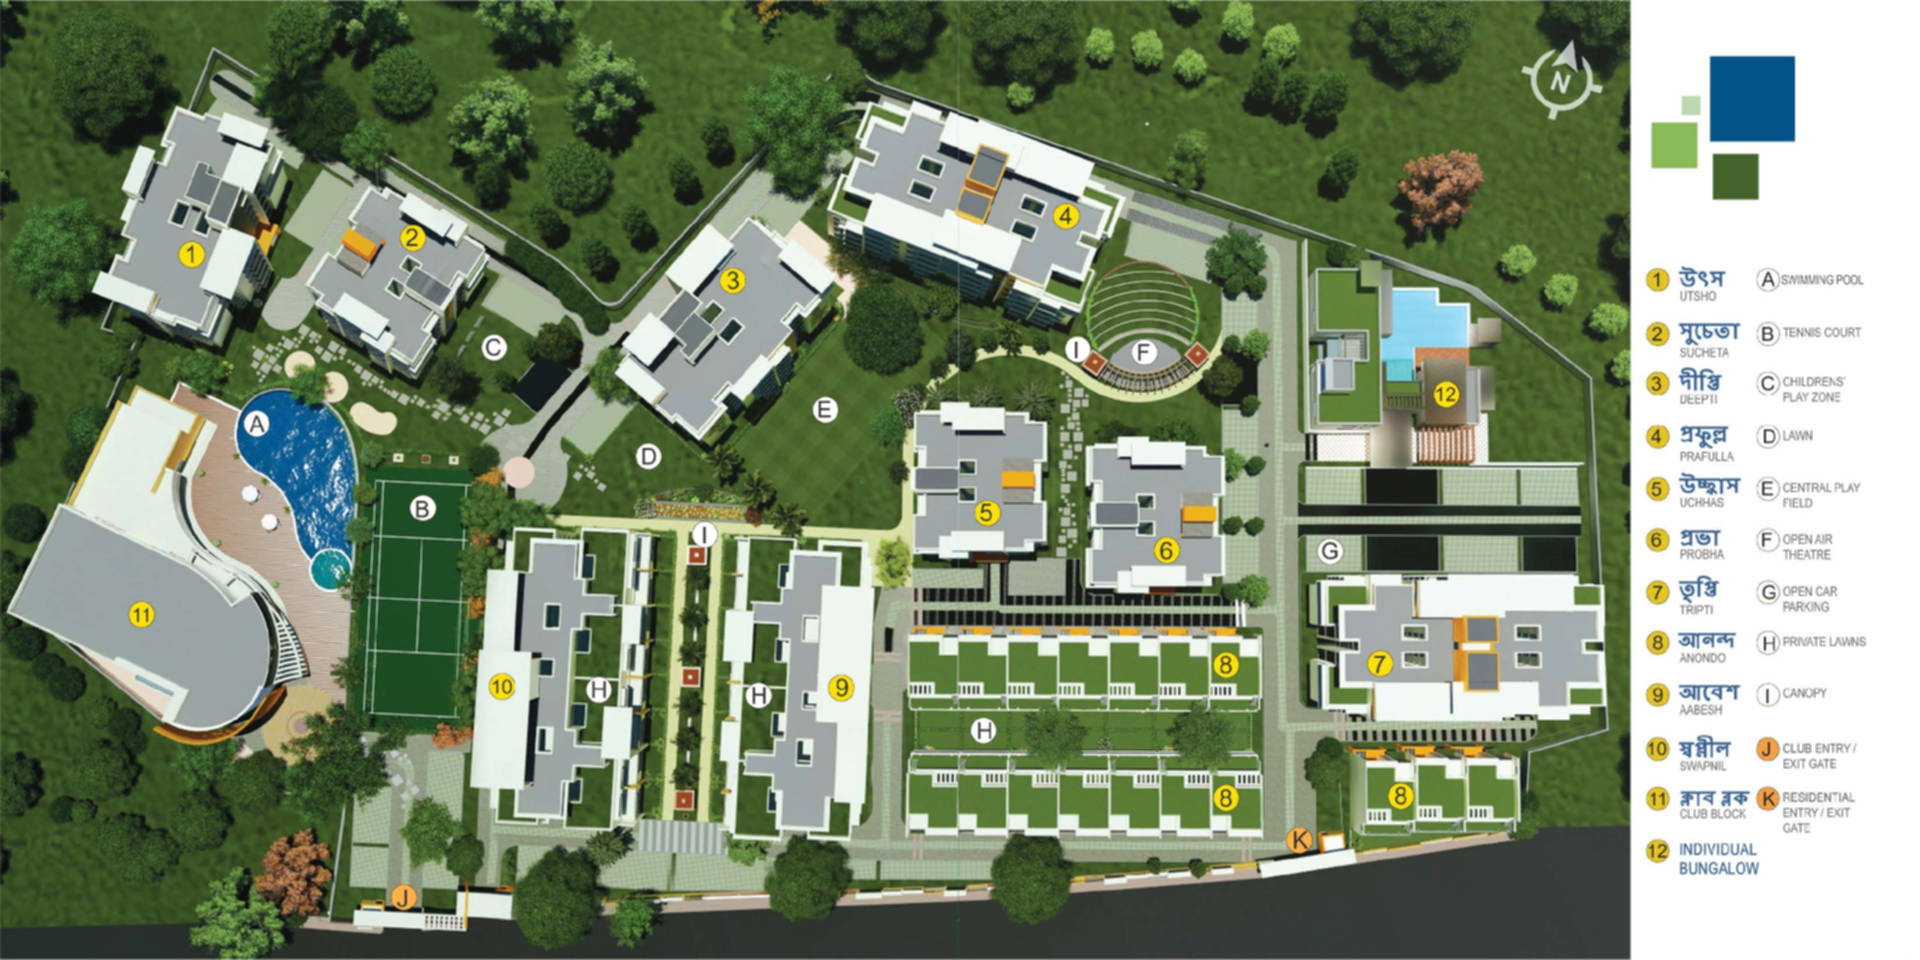
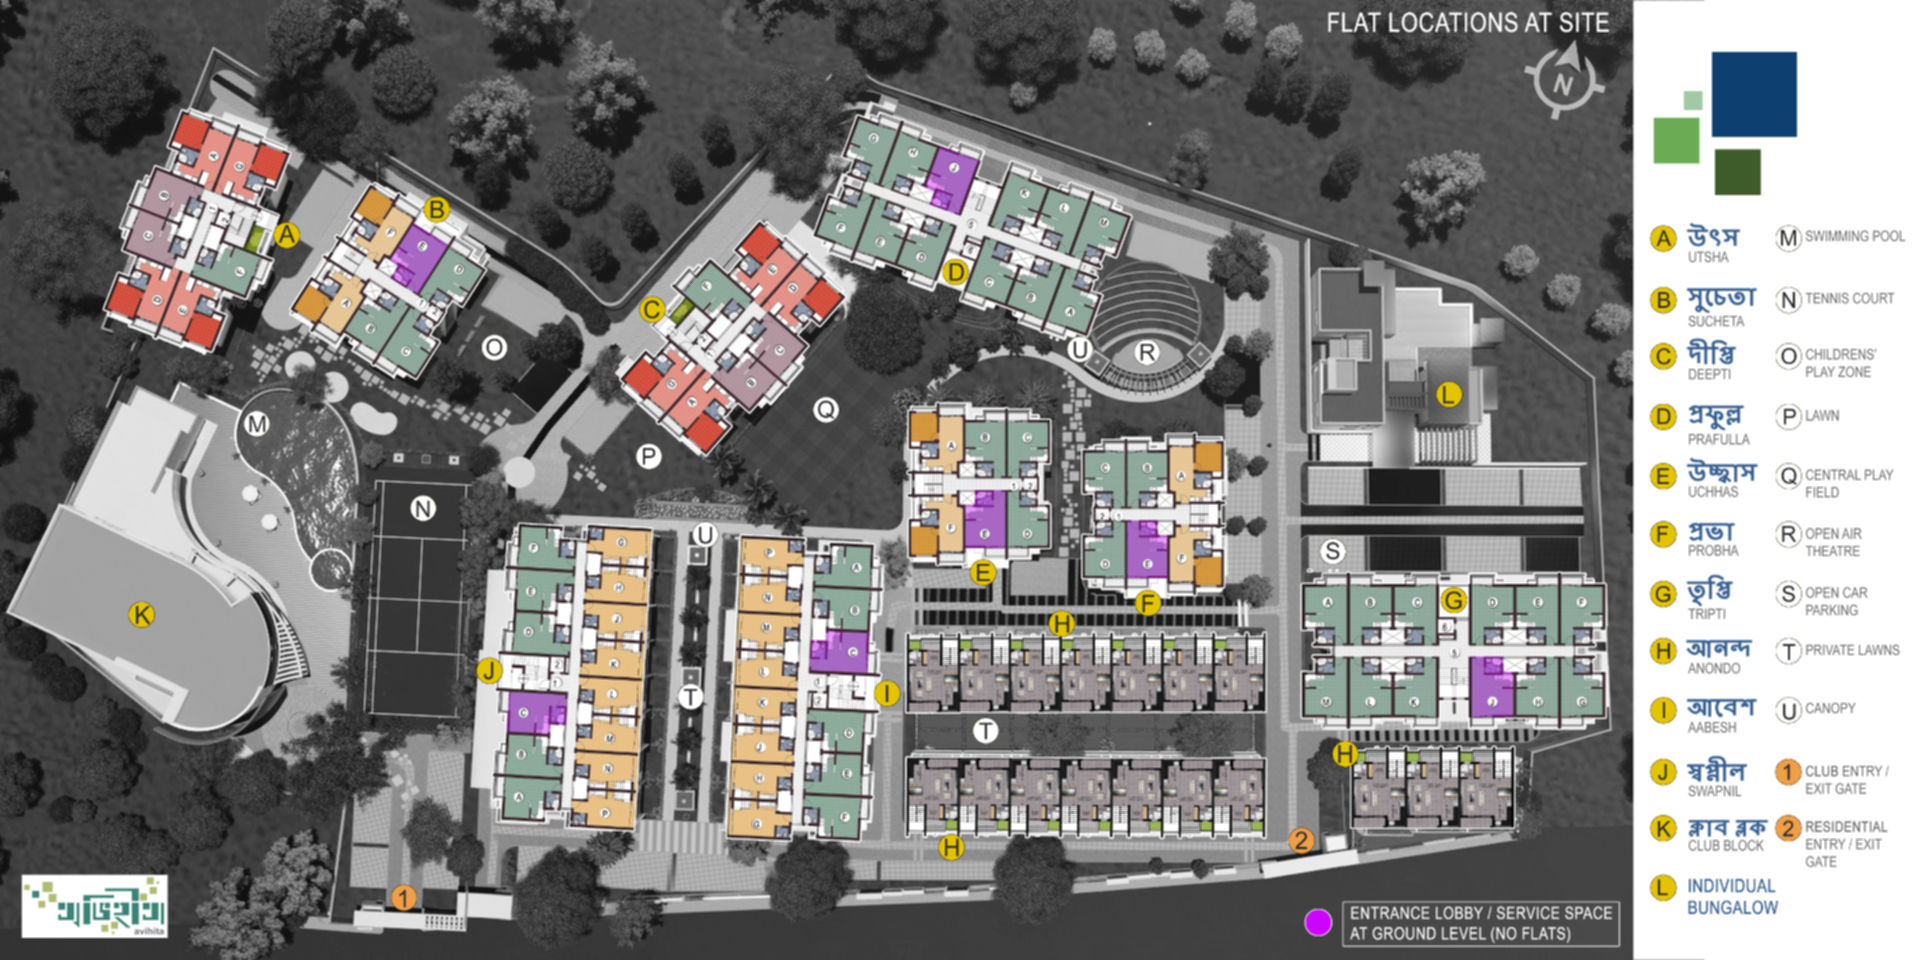
change overview image

diff --git a/avihita/index.html b/avihita/index.html
@@ -612,7 +612,7 @@
               <p class="subheading text-center" style="color: #6a6a6a">We Take Care For Every Detail</p>
             </div>
           </div>
-          <img src="/img/abihita/overview.jpg">
+          <a href="/img/abihita/MASTER PLAN_FLAT LOCATIONS.jpg" target="blank"><img src="/img/abihita/overview.jpg"></a>
       </div>
     </section>
 
